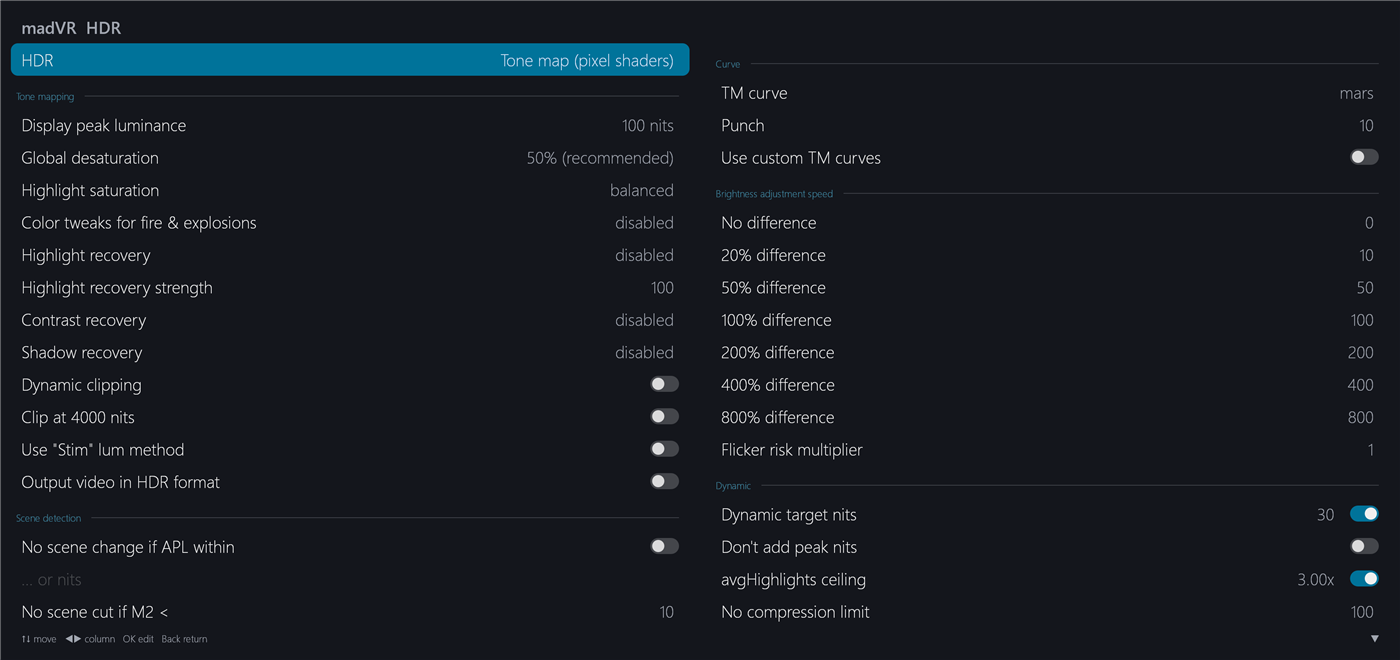
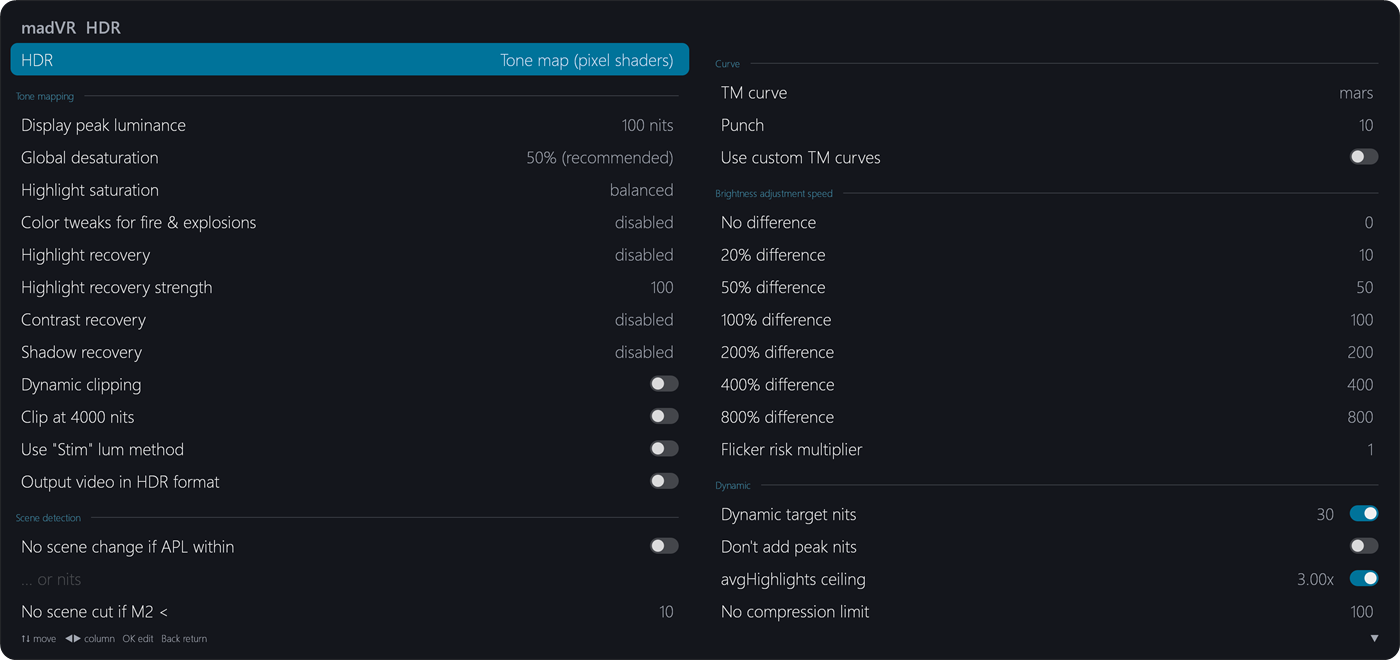
README pictures: rounded corners, centred, video info and madVR main page added
- Every picture has rounded, transparent corners (about 10 px as shown on the
  page) and is centred.
- New: the video info panel (Info section) and the madVR main page (Video,
  madVR and LAV section); Settings is a new capture.
- Settings and Control bar options show side by side at the same height.
- The Video page moved to the Video, madVR and LAV section.
- The top picture is a PNG now (rounded corners need transparency); the JPEG
  is removed. The Singularity credit covers both pictures with the film.

diff --git a/.github/README.md b/.github/README.md
@@ -34,8 +34,11 @@ and web interface are unchanged.
 > The standard 0.92.17 release may store some settings differently, so not every madVR option may show
 > or work with it. Everything else in TV Mode works with any renderer.
 
-![MPC-HC TV's control bar over a film](../docs/screenshots/tv-mode.jpg)
-<sub>Picture: <a href="https://studio.blender.org/films/singularity/"><i>Singularity</i></a> (Blender Studio, 2026), (CC) Blender Foundation | studio.blender.org, <a href="https://creativecommons.org/licenses/by/4.0/">CC BY 4.0</a>. Screenshot of a frame with the TV Mode control bar on top, scaled down.</sub>
+<p align="center">
+  <img src="../docs/screenshots/tv-mode.png" alt="MPC-HC TV's control bar over a film" width="100%">
+  <br>
+  <sub>Picture: <a href="https://studio.blender.org/films/singularity/"><i>Singularity</i></a> (Blender Studio, 2026), (CC) Blender Foundation | studio.blender.org, <a href="https://creativecommons.org/licenses/by/4.0/">CC BY 4.0</a>. Screenshots in this page show frames of it with TV Mode on top, scaled down.</sub>
+</p>
 
 ## Features
 
@@ -64,6 +67,10 @@ and web interface are unchanged.
 - Works for streams too: when a media server passes a web address instead of a file, the title and
   MediaInfo details are read from the stream.
 
+<p align="center">
+  <img src="../docs/screenshots/video-info.png" alt="Video info panel, Nightmare level" width="100%">
+</p>
+
 ### Video, madVR and LAV
 - **Video page**: video renderer, madVR settings, LAV Video, pixel shaders. After changing the
   renderer, "Restart playback to apply" reopens the file at the same place with the same tracks.
@@ -73,7 +80,15 @@ and web interface are unchanged.
   on / off and a value keep both on one row.
 - **LAV pages**: bitstreaming, DRC, output formats, hardware decoding, RGB levels, deinterlacing.
 
-![madVR HDR settings](../docs/screenshots/madvr-hdr.png)
+<p align="center">
+  <img src="../docs/screenshots/madvr-settings.png" alt="madVR settings" width="75%">
+</p>
+<p align="center">
+  <img src="../docs/screenshots/madvr-hdr.png" alt="madVR HDR settings" width="100%">
+</p>
+<p align="center">
+  <img src="../docs/screenshots/video-page.png" alt="Video page" width="60%">
+</p>
 
 ### TV options
 - **Look**: accent colour (presets or custom), background colour, menu and bar opacity, icon
@@ -89,9 +104,9 @@ and web interface are unchanged.
   remote itself; Edit shows a command's keys as tags so one can be removed and the others kept.
 - Menus wrap around, scroll smoothly with the mouse wheel, and skip options that don't apply.
 
-<p>
-  <img src="../docs/screenshots/settings.png" alt="Settings" width="49%">
-  <img src="../docs/screenshots/control-bar-options.png" alt="Control bar options" width="49%">
+<p align="center">
+  <img src="../docs/screenshots/settings.png" alt="Settings" width="54.8%">
+  <img src="../docs/screenshots/control-bar-options.png" alt="Control bar options" width="43.2%">
 </p>
 
 ### Power menu
@@ -99,9 +114,8 @@ and web interface are unchanged.
   (It can also be set to leave fullscreen or exit the player directly.)
 - The **Power** button in the bar's corner opens it too.
 
-<p>
-  <img src="../docs/screenshots/power-menu.png" alt="Power menu" width="40%">
-  <img src="../docs/screenshots/video-page.png" alt="Video page" width="58%">
+<p align="center">
+  <img src="../docs/screenshots/power-menu.png" alt="Power menu" width="55%">
 </p>
 
 ### Drawing
@@ -163,8 +177,8 @@ MPC-HC it is licensed under the **GPL-3.0** (see [COPYING.txt](../COPYING.txt)).
 Not affiliated with MPC-HC, madVR, LAV Filters, Emby or Jellyfin. The track lists follow the look and
 behaviour of Emby's and Jellyfin's players; no code, icons or fonts were taken from them.
 
-The film in the screenshot at the top is [*Singularity*](https://studio.blender.org/films/singularity/)
+The film behind the screenshots of the control bar and the info panel is [*Singularity*](https://studio.blender.org/films/singularity/)
 by Blender Studio (director Andy Goralczyk), (CC) Blender Foundation | studio.blender.org, licensed
-[CC BY 4.0](https://creativecommons.org/licenses/by/4.0/). The screenshot shows one frame of it with
-this player's control bar on top; it isn't endorsed by Blender. The Blender and Singularity logos are not
+[CC BY 4.0](https://creativecommons.org/licenses/by/4.0/). The screenshots show frames of it with this
+player's overlay on top; they aren't endorsed by Blender. The Blender and Singularity logos are not
 covered by that licence and are not used here.
